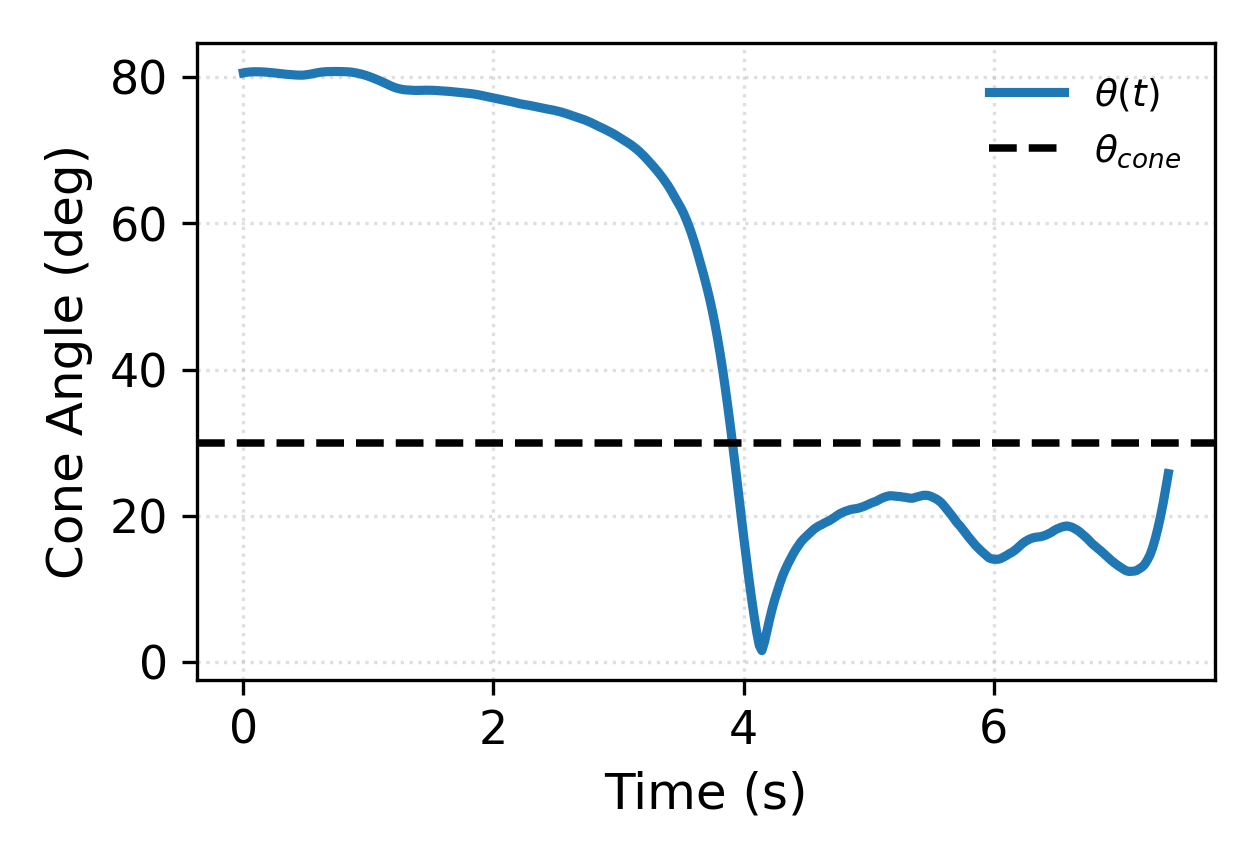
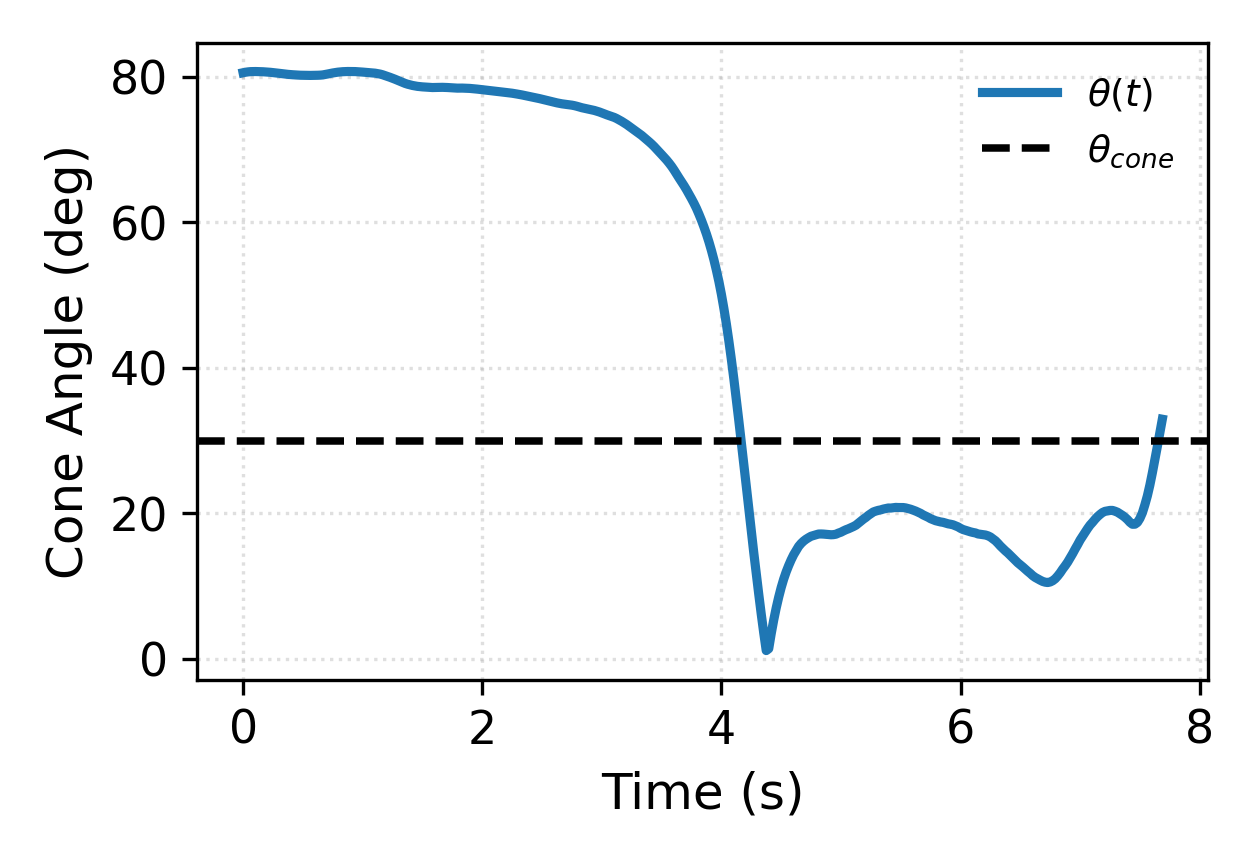
all plots final

diff --git a/gym-pybullet-drones-main/gym_pybullet_drones/final_with_plots2/scp_linear_target_combined.py b/gym-pybullet-drones-main/gym_pybullet_drones/final_with_plots2/scp_linear_target_combined.py
@@ -1016,12 +1016,12 @@ def run():
                 if docking_phase == 0:
                     # Use 2D distance so it dives the moment it catches up horizontally
                     xy_dist = np.linalg.norm(p_chaser[0:2] - p_target[0:2])
-                    if xy_dist < 0.35:
+                    if xy_dist < 0.4:
                         docking_phase = 1
                         print(f"[PHASE] {sim_t:.2f}s | Switched to Terminal Phase (Diving in!)")
 
                 # --- DOCKING COMPLETION CHECK (Wind-Relaxed) ---
-                if docking_phase == 1 and np.linalg.norm(p_chaser - p_target) < 0.15:
+                if docking_phase == 1 and np.linalg.norm(p_chaser - p_target) < 0.2:
                     frozen = True
                     freeze_pos_c = p_chaser
                     freeze_pos_t = p_target
